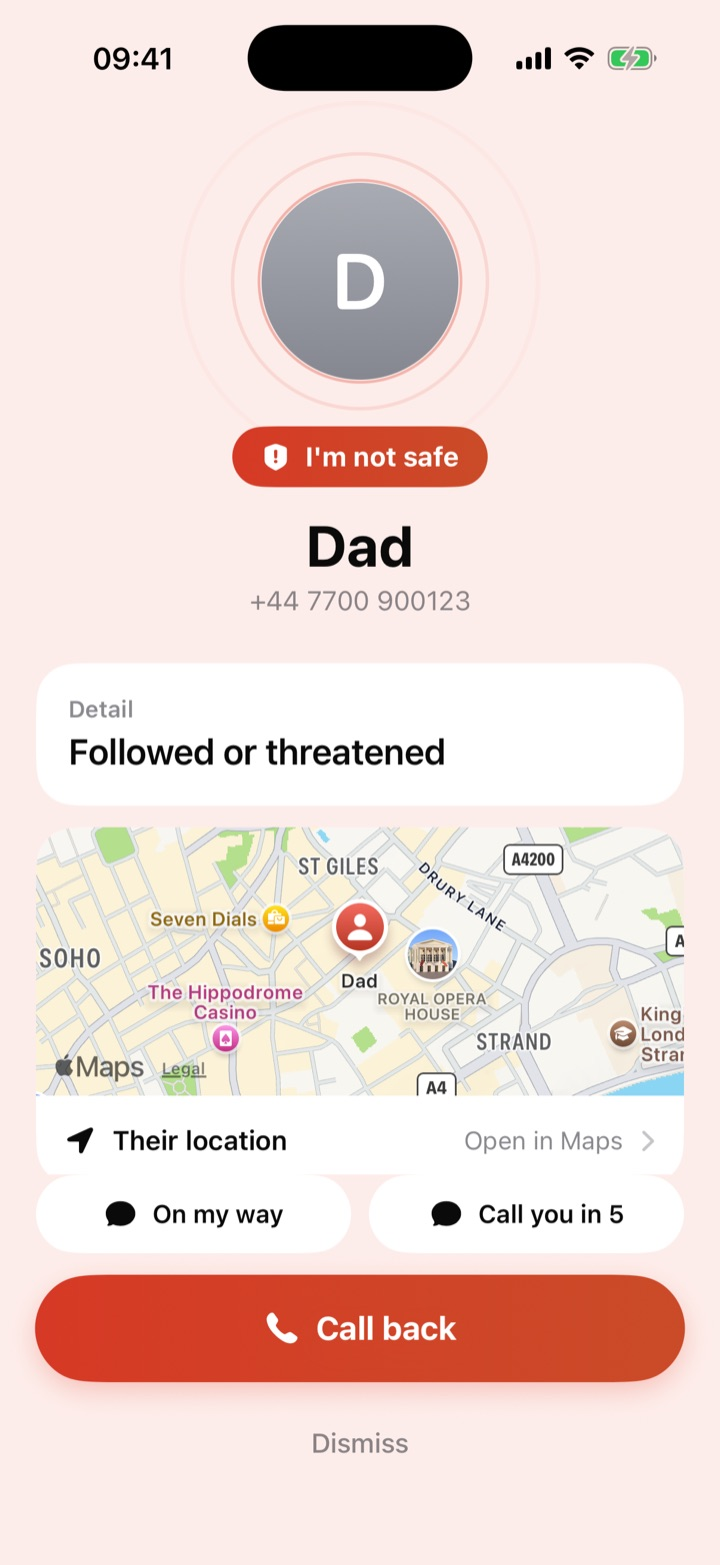
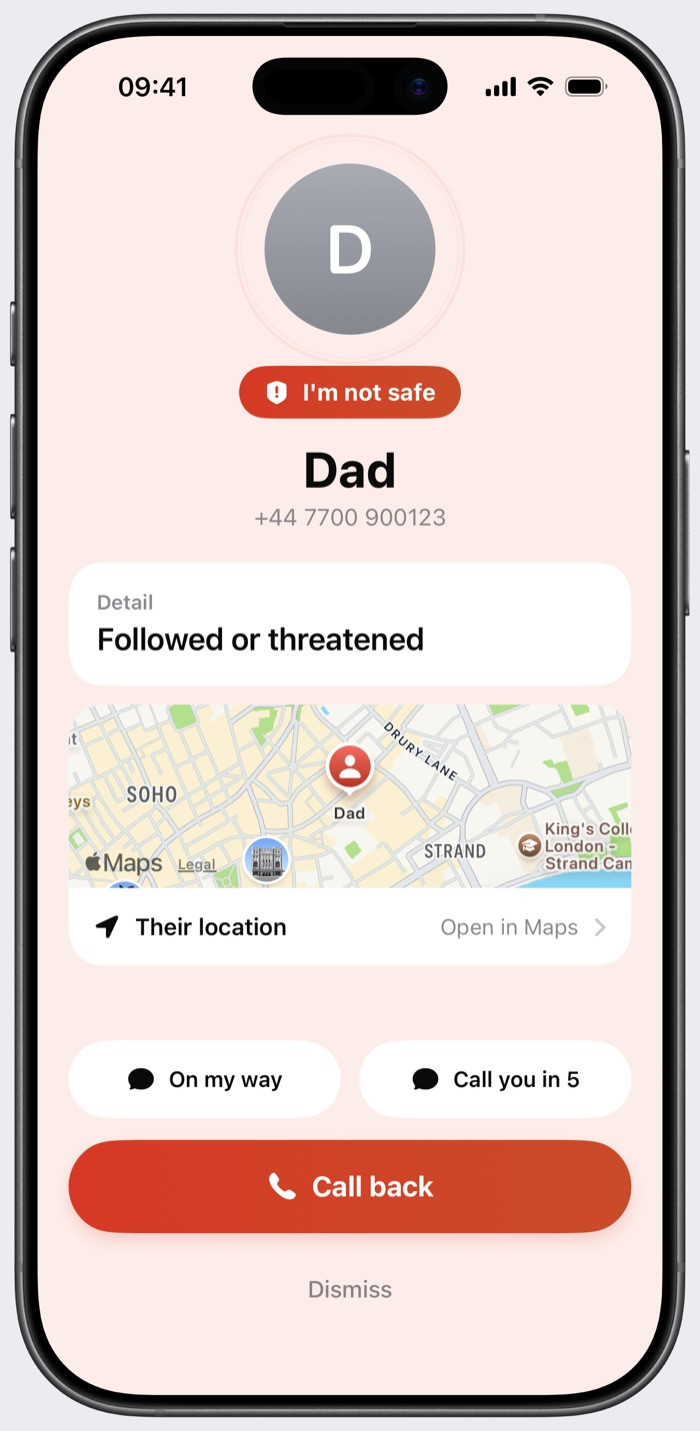
Landing: real iPhone 17 bezel around the alert screenshot, fix header button spaces

Changed region(s): [[0.0, 0.0, 0.99, 1.0], [0.3, 0.123, 0.69, 0.3997], [0.69, 0.0615, 0.72, 0.0922]]

diff --git a/index.html b/index.html
@@ -30,7 +30,7 @@
       <a href="privacy.html">Privacy</a>
       <a href="terms.html">Terms</a>
     </nav>
-    <a class="button button--small" href="#join" data-focus-email>Join <span class="hide-narrow">the </span>waitlist</a>
+    <a class="button button--small" href="#join" data-focus-email><span>Join <span class="hide-narrow">the </span>waitlist</span></a>
   </div>
 </header>
 
@@ -56,10 +56,8 @@
     </div>
 
     <figure class="hero__phone">
-      <div class="phone">
-        <img src="img/alert-screen.jpg" width="720" height="1565"
-             alt="NeverMiss alert on the receiver’s iPhone: Dad, I’m not safe, followed or threatened, with his location on a map and a Call back button.">
-      </div>
+      <img class="device" src="img/alert-screen.jpg" width="700" height="1431"
+           alt="NeverMiss alert on the receiver’s iPhone: Dad, I’m not safe, followed or threatened, with his location on a map and a Call back button.">
       <figcaption>What they see when you send an alert.</figcaption>
     </figure>
   </section>

diff --git a/style.css b/style.css
@@ -386,20 +386,12 @@ footer span { margin-inline-end: auto; }
 
 .hero__phone { margin: 0; display: grid; justify-items: center; gap: 12px; }
 .hero__phone figcaption { font-size: 0.875rem; color: var(--color-text-secondary); }
-/* A plain device outline: no gloss, no tilt, just enough to read as a phone. */
-.phone {
-  width: 300px;
-  max-width: 100%;
-  padding: 9px;
-  border-radius: 50px;
-  background: var(--color-text);
-  box-shadow: 0 30px 60px -30px rgb(10 10 10 / 0.35);
-}
-.phone img { display: block; width: 100%; height: auto; border-radius: 41px; }
+/* Apple's official iPhone 17 bezel (Apple Design Resources) around a real simulator screenshot. */
+.device { display: block; width: 300px; max-width: 100%; height: auto; }
 
 @media (max-width: 820px) {
   .hero { grid-template-columns: 1fr; gap: 40px; padding-top: 36px; }
-  .phone { width: 260px; }
+  .device { width: 270px; }
 }
 
 /* ---------- Waitlist form ---------- */
